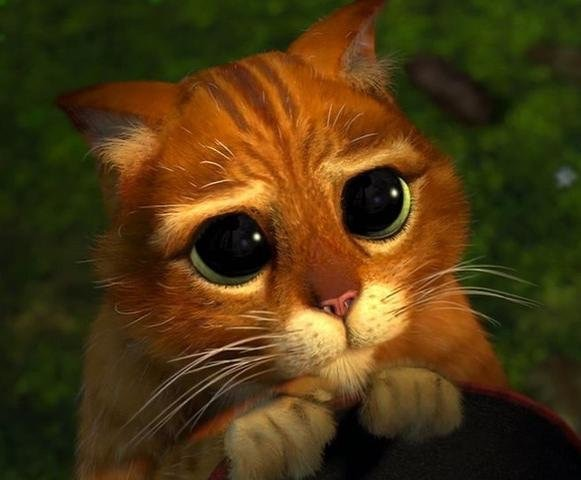
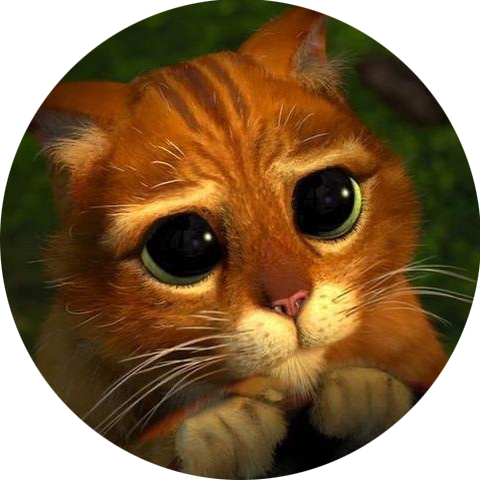
add about page

diff --git a/source/about/index.md b/source/about/index.md
@@ -1,0 +1,19 @@
+---
+title: about
+date: 2016-04-06 20:51:36
+type: "about"
+comments: false
+---
+
+# <center>关于作者</center>
+<center>![](http://7xsomm.com2.z0.glb.clouddn.com/head.png?imageMogr2/thumbnail/!20p) </center>
+
+<center> **rhj** 
+
+<center> *Android狗一只。 求实习工作中...*
+
+<center> *mail: <aha199277@qq.com>*
+
+<center> *QQ: 945935700*
+
+<center> *坐标: 六安*
